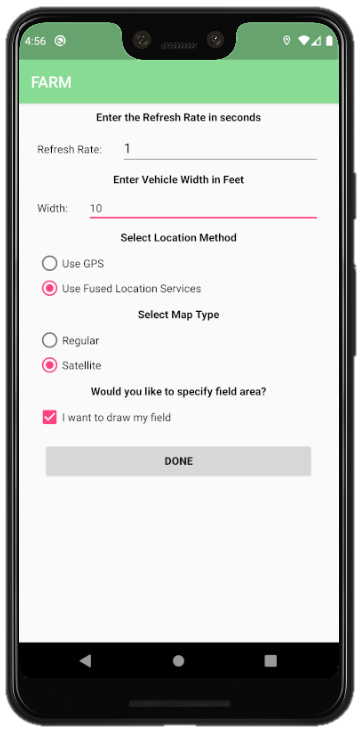
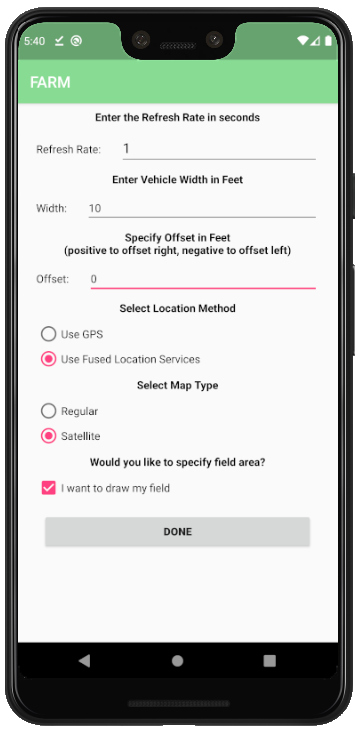
updated readme to mention offset in list of features and settings image

diff --git a/README.md b/README.md
@@ -4,7 +4,7 @@ The Field Automated Routing Module (FARM) allows users to track their location h
 <img src="./images/logo.png" width="176" height="176">
 
 ## Current functionality
-* Tracks user's path as they move. Path is plotted as a semi-transparent rectangluar polygon. Loction tracking can be paused and restarted.
+* Tracks user's path as they move. Path is plotted as a semi-transparent rectangluar polygon with a right/left offset as defined by the user. (An offset allows for the user to account for scenarios where the phone/tablet is not placed in the center of the tractor, but on the left or right side of the tractor). Location tracking can be paused and restarted.
 * User can define the width of the rectangle in feet so that the width of the sprayer, planter, implement, etc. is represented by the plotted path.
 * User can define the boundaries of their field by tapping locations along the perimeter of their field on the map (optional). This area is then highlighted on the main map.
 * Location method can be chosen as:
@@ -19,6 +19,7 @@ Settings            | Drawing Field     | Field Plotted     | Plotting Path     
 * Track stats such as acreage covered and time elapsed.
 * Give user ability to save defined field for later use.
 * Give user to save progress so they can resume later.
+* Allow user to choose colors of field area and path.
 ## Dependencies
 * The app is dependent on the android-maps-utils library
 * Link to documentation: 
